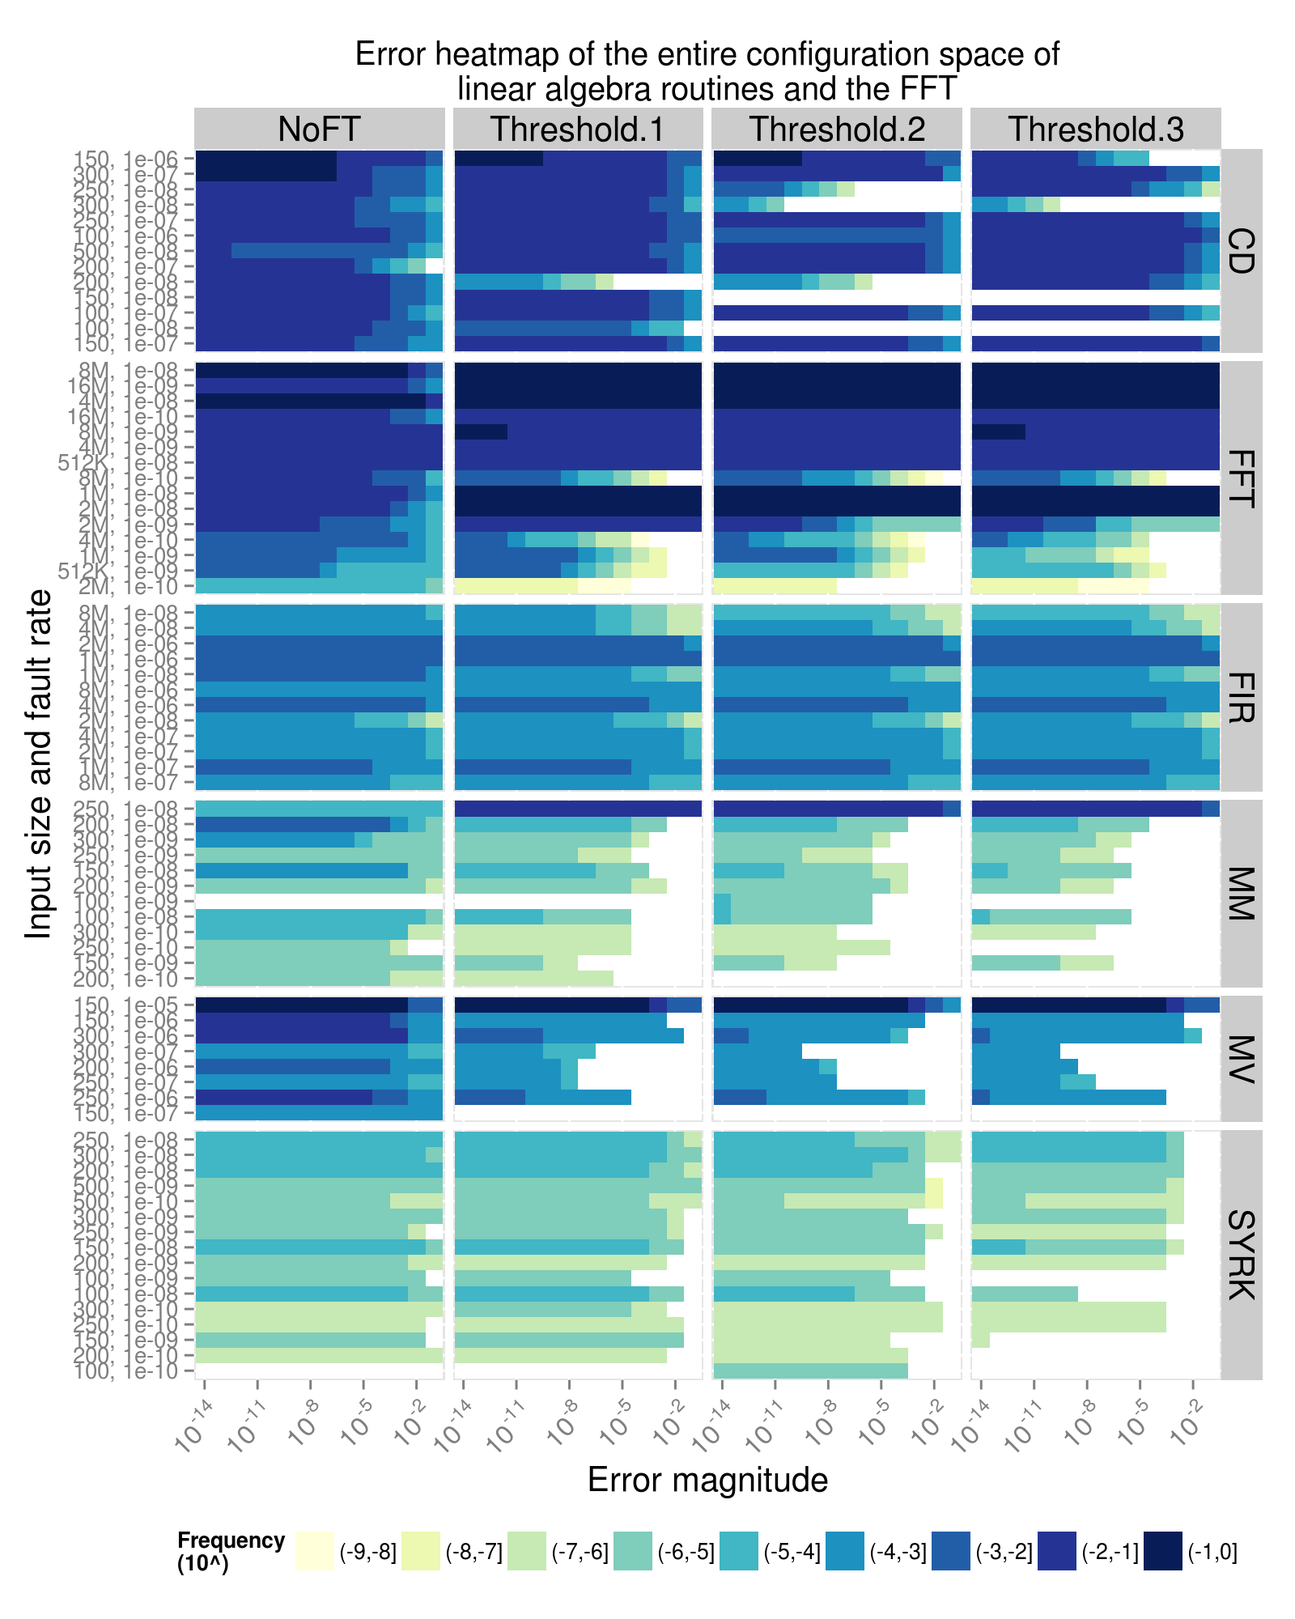
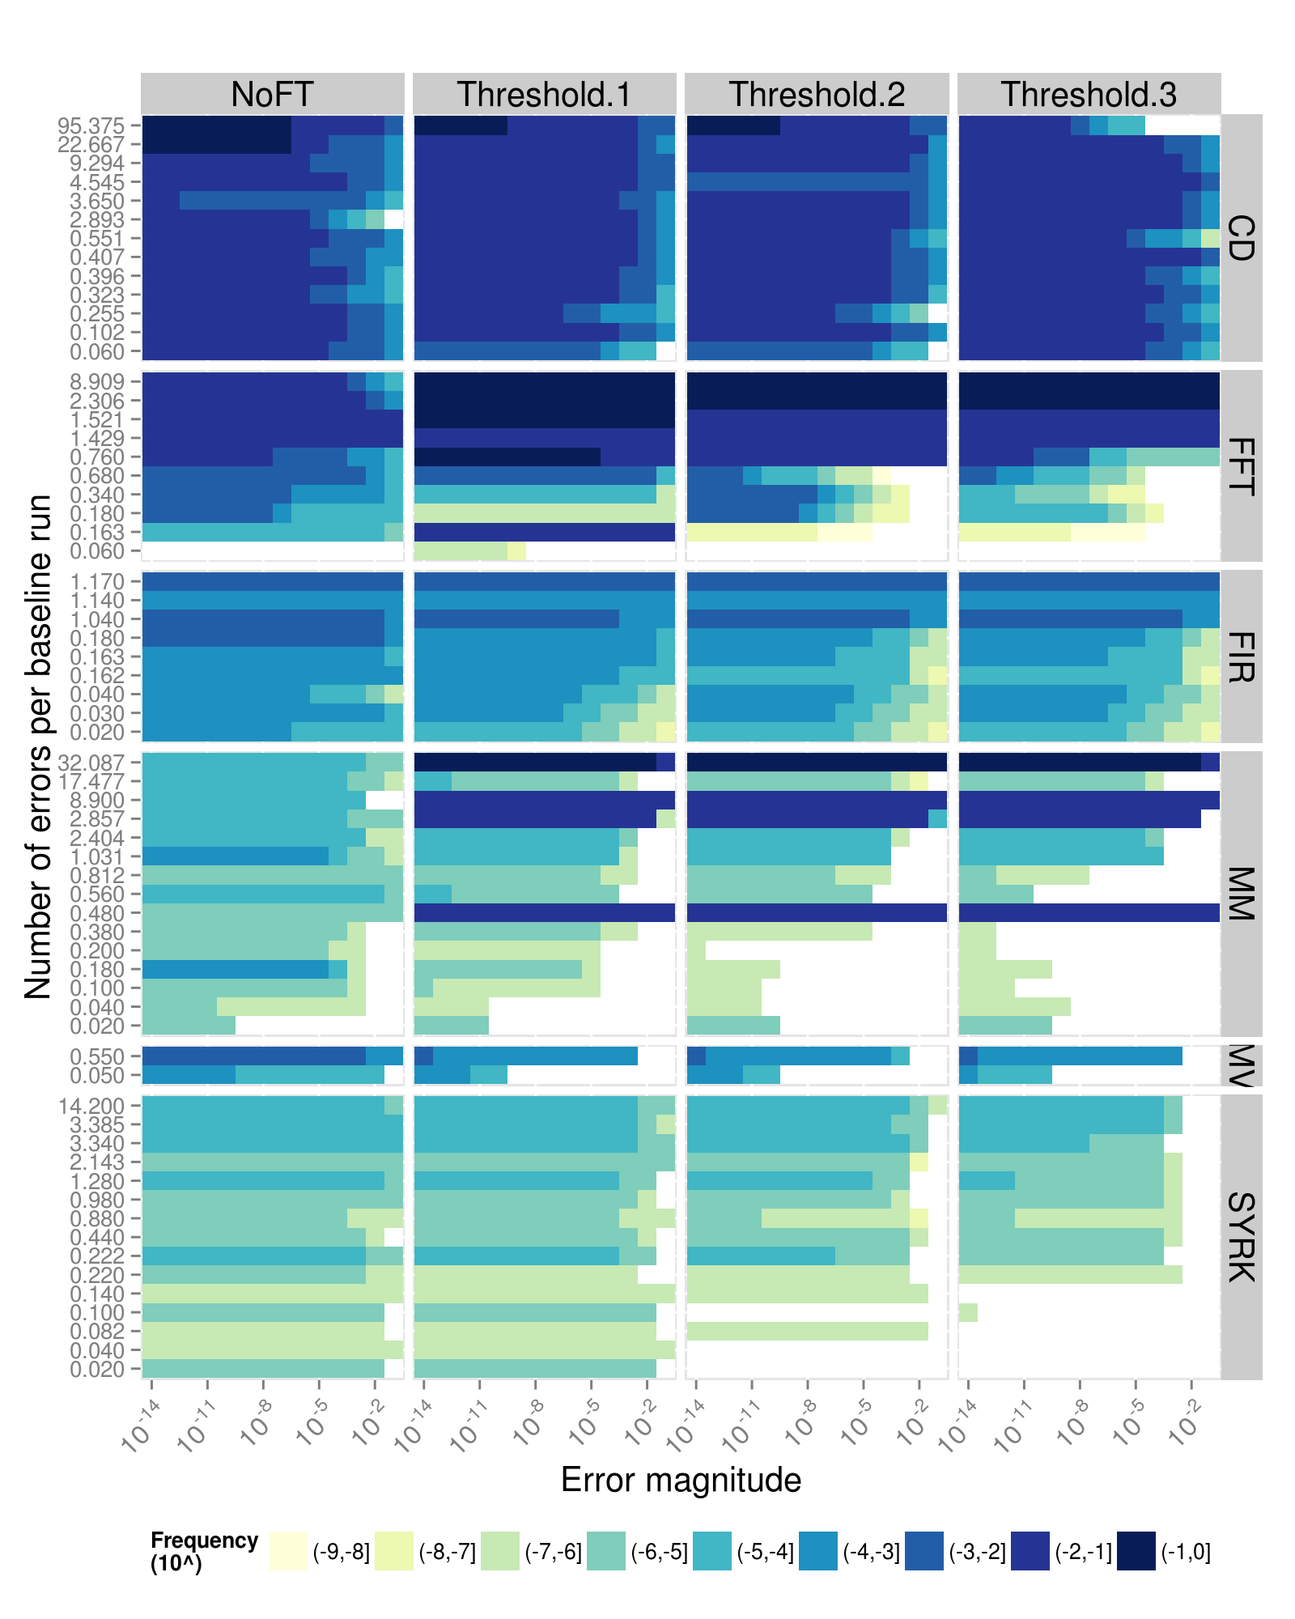
Fixed Fig 4

diff --git a/paper.tex b/paper.tex
@@ -79,7 +79,7 @@ We show how these three applications can be comprehensively protected from soft 
 We demonstrate via fault injection experiments that although none of these techniques can individually protect applications from soft faults, their combination is highly effective.
 Further, we demonstrate how these techniques can be configured to offer the right level of protection at any given fault rate or input type.
 More specifically, these configurations can be used to produce a wide range of overheads and result accuracy levels and to tune the probabilistic confidence level that the given overhead or accuracy target will be met.
-\greg{Summarize real results} \sui{A tighter algorithmic checker bounds can be enabled at low error rates to completely eliminate erroneous results at a lower overhead, while a more lenient algorithmic checker would allow the user to produce more acceptable results in face of a higher error rate (such as 1e-09).}
+\greg{Summarize real results} \sui{A tighter algorithmic checker bounds can be enabled at low error rates to completely eliminate erroneous results at a lower overhead, while a more lenient algorithmic checker would allow the user to produce more acceptable results in face of a higher error rate (such as 1e-09). Through high and low error rates, we correct more than 50\% of segmentation faults and reduce the error in the outputs by magnitudes by paying lower than 20\% overheads for linear algebra, FFT and FIR filter generation and a reasonable overhead for the integrator.}
 
 The paper is organized as follows.
 Section~\ref{sec:soft_faults} discusses the problem of soft errors and presents the fault injection model we use to simulate them in our experiments.
@@ -91,12 +91,12 @@ The effectiveness of our methodology for protecting the full applications is eva
 \section{Soft Faults}
 \label{sec:soft_faults}
 
-Cosmic rays or alpha particles hitting the computer circuits and accumulating a sufficient amount of energy may invert the device logic states from "0" to "1" or from "1" to "0"~\cite{ibm_softerr:1996,baumann:2005}.
+Cosmic rays or alpha particles hitting the computer circuits and accumulating a sufficient amount of energy may invert the device logic states from "0" to "1" or from "1" to "0"~\cite{Ziegler:1996:TCR:226354.226356,baumann:2005}.
 These inversions are termed as soft errors or soft faults.
 The shrinking processor and memory feature size and the lower threshold voltage coming with relentless manufacturing technology scaling make modern high performance computers are highly vulnerable to soft errors which propagate as the program is being executed.
 Prior studies have demonstrated that soft errors occurring in all the important bits that are required for Architecturally Correct Execution (ACE)~\cite{avf:2003} eventually change the program outcome, i.e., manifest errors to the application.
 The ACE bits include critical information to keep the program logic such as the program counter register for a committed instruction.
-In the past decades, soft errors have brought significant losses on commercial servers and high performance computers such as the recall of Sun servers due to memory errors~\cite{SoftErr:Baumann:2002} or the cache corruptions in the ASCI Q system~\cite{asciQSER:2005}.
+In the past decades, soft errors have brought significant losses on commercial servers and high performance computers such as the recall of Sun servers due to memory errors~\cite{baumann:2005} or the cache corruptions in the ASCI Q system~\cite{asciQSER:2005}.
 
 %Discuss prior work on replication and algorithmic techniques, emphasize that in this paper we're focusing on software resilience since hardware resilience is extremely difficult to deploy in real processors since the costs have to be carried by non-HPC markets that care much less about it.
 
@@ -130,15 +130,14 @@ The DRC program generates filters for HiFi audio systems to compensate for the r
 The inputs are stored in Pulse Code Modulation (PCM) format, which is an array of 32-bit floating point numbers representing the samples at each sampling time step and the computations are performed using 32-bit precision.
 Although the algorithm is divided into many phases the most computationally intensive step consists of the GSL's implementation of the Fast Fourier Transform and an DRC-internal implementation of Finite Impulse Response filter generation.
 This program accepts user-controllable configurations to decide the width and number of iterations of FFT transforms it uses to perform various passes on the input file, such as windowing, deconvolution, pre- and post-filtering.
-Different configurations would load the CPU for different lengths of time, resulting in the program generating inputs of different sizes \sui{to the FFT routines.}.
-\greg{What inputs?}
+The input used in this paper is an audio file of size 768 kilobytes.
 
 \subsection{Hattrick}
 \label{sec:apps:hattrick}
 The Hattrick application simulates the motion of bodies under the effects of gravity using 64-bit precision.
 It is designed to help discover extra-solar planets by inferring their existence from Transit Timing Variations, where the difference between the times when a planet passes in front of its host star is used to infer the existence and properties of other planets in the system.
 This program spends most of its execution time in the GSL solver for Ordinary Differential Equations to solver the system's equations of motion.
-\greg{What inputs?} \sui{Input files are four different planetary systems. The first, third and fourth input files simulate one star and one planet and the second simulates one star and two planets. The third and fourth inputs are the same planetary system with different lengths of simulation time.}
+Input files are four different planetary systems. The first, third and fourth input files simulate one star and one planet and the second simulates one star and two planets. The third and fourth inputs are the same planetary system with different lengths of simulation time.
 
 \section{Resilience Techniques}
 \label{sec:res_tech}
@@ -158,7 +157,7 @@ Finally, Section~\ref{sec:res_tech:eval} presents an experimental evaluation of 
 
 Each algorithm used by the above application was enhanced with an algorithm-specific checker that validated its results by exploiting some algorithmic identity.
 Each checker computes some aggregate property of the algorithm's results using two different algorithm to produce vectors $v$ and $v'$ and their relative difference by more than some threshold $\tau$, the checker declares that an error has occurred.
-The relative difference is computed as $\frac{\left|| v-v' \right||}{max(\left||v\right||, \left||v'\right||)}$ \greg{is this the right formula???} \sui{yes}.
+The relative difference is computed as $\frac{\left|| v-v' \right||}{max(\left||v\right||, \left||v'\right||)}$.
 Each error detection causes the routine's execution to be restarted using the rollback mechanism described in Section~\ref{sec:res_tech:cr}.
 
 \paragraph{Matrix-matrix multiplication (MMM)}
@@ -166,7 +165,7 @@ The MMM operation $A \cdot B$ is checked using a matrix vector multiplication (M
 Both sides compute the sums of the columns of matrix $A \cdot B$ using a single matrix-vector multiplication on the left and two such operations on the right.
 Most errors in the computation of $A \cdot B$ will affect the sums of its columns and will thus be detected.
 This check is efficient because the checker is asymptotically faster than the MMM algorithm, with MVM taking $O(n^2)$ time and MMM $O(n^3)$ time.
-Since we make no assumptions about the distribution of data in the matrices being multiplied, we set the check vector $x$ to contain all 1's.
+Since this is dense martix matrix multiplication, we set the check vector $x$ to contain all 1's.
 
 \paragraph{Matrix-vector multiplication (MVM)}
 The MVM algorithm $Ax=b$ is checked using a similar identity $(x^TA)x = x^T(Ax) = x^Tb$.
@@ -240,7 +239,7 @@ This is important for resilience as well as performance since slowdowns due to f
 \label{sec:res_tech:cr}
 
 When errors are detected we employ a recovery method based on checkpoint-restart, where routine state is recorded at key locations and whenever an algorithmic or memory error is detected we roll back to that point in its execution.
-Rollbacks are implemented via the \texttt{sigsetjmp}/\texttt{siglongjmp} routines.
+Rollbacks are implemented via the \texttt{sigsetjmp}/\texttt{siglongjmp} \cite{sigsetjmp:1997} routines.
 \texttt{sigsetjmp} record the application's execution state (registers and stack pointer) at the time of the checkpoint.
 On error detection \texttt{siglongjmp} returns the application to the same execution point, unrolling any function calls between the checkpoint and the error detection.
 This method is useful for rolling back to checkpoints recorded in the same function or in a caller function.
@@ -251,22 +250,16 @@ Checkpoint data is protected using two different mechanisms.
 Pointers and scalars are replicated such that the checkpoint contains two copies of each.
 Arrays of floating point numbers are protected via a block-checksum-based error correcting code..
 By treating the input array as a matrix and comparing row sums and column sums of the submatrices of that matrix, we are able to detect the existence of errors and fix a fraction of the errors.
-\sui{This algorithm takes in an array of numbers, divide it into blocks of $N \cdot N$ numbers, computes and stores the row sums and column sums that are used for recovery. It is capable of correcting one corrupt element that does not share the same row or column with another element.}
-The protection mechanism has the following parameters:
-\begin{itemize}
-\item{\texttt{N}, the size of the error correcting sum block.}
-\item{\texttt{ECC\_ECC}, whether or not the error correcting code itself should be corrected.}
-\end{itemize}
-This mechanism is able to correct up to $1/{n^2}$ of the elements in the input array.
-\greg{Which code is being used here? You just say that it is based on block-checksums}.
+This algorithm takes in an array of numbers, divide it into blocks of $N \cdot N$ numbers and for each block it computes and stores the row sums and column sums that are used for recovery.
+The protection mechanism has one parameters,\texttt{N}, the size of the error correcting sum block.
 
 The structure of each routine determines how checkpointing is deployed.
 All routines except RK are monolithic code blocks that take a relatively large amount of data as input, operate on it and then return.
 In contrast, RK takes in very little input and operates as a long sequence of steps, each of which involves a call to a user-provided derivative routine.
-As such, we checkpoint the state of non-RK routines immediately after the call to the routine and include in this checkpoint the routine's arguments and contents of the floating point input buffers \greg{is this correct?} \sui{Yes}.
+As such, we checkpoint the state of non-RK routines immediately after the call to the routine and include in this checkpoint the routine's arguments and contents of the floating point input buffers.
 The one exception is the FIR routine, which takes no input and thus requires only the processor's state to be checkpointed..
 Because RK's checkpoints are very small and it is more sensitive to errors, it is checkpointed periodically during its execution with a fixed number of steps between checkpoints.
-As our experiments \greg{where?} \sui{This should be ready tomorrow} show, the choice of the RK checkpoint period significantly affects its efficiency with longer periods suffering from more overhead due to rollbacks and short period spending more time checkpointing.
+As our experiments in \ref{sec:res_tech:eval:rk} show, the choice of the RK checkpoint period significantly affects its efficiency with longer periods suffering from more overhead due to rollbacks and short period spending more time checkpointing.
 
 \subsection{Evaluation of Subroutine Resilience}
 \label{sec:res_tech:eval}
@@ -285,15 +278,15 @@ This section evaluates the routines MMM, MVM, SYRK, CD, FFT and FIR.
 \includegraphics[width=1.00\columnwidth]{figs/4_1_1_Exp1_linalg}
 \includegraphics[width=1.00\columnwidth]{figs/4_1_1_Exp1_fft}
 %\vspace{-5pt}
-\caption{Overhead of resilience techniques when errors are not injected \greg{Change y-axis name to say overhead rather than ratio} \sui{Done}}
+\caption{Overhead of resilience techniques when errors are not injected \greg{Change y-axis name to say overhead rather than ratio}}
 \label{fig:routine_detect_ovhd}
 \end{figure}
 
 %Experiment 1: Measure performance degradation of using error detectors as input sizes increase. In case of RK if we can run a version that doesn't do the multiple step sizes, do so but if this is difficult then don't worry about it.
 We evaluate the costs of the above algorithmic error checkers by measuring their costs and effectiveness when running at different error rates on different types of inputs.
-Figure \ref{fig:routine_detect_ovhd} measures the overheads of employing the algorithmic error detectors when no errors are injected, reporting the average of \greg{???} \sui{100} runs.
+Figure \ref{fig:routine_detect_ovhd} measures the overheads of employing the algorithmic error detectors when no errors are injected, reporting the average of 100 runs.
 The linear algebra routines were executed on $nxn$ square matrices where $n$ varies from 100 to 1000.
-FFT ran on inputs vectors with 128K to 4M entries and RK ran on an integral with intervals $[0, t_1]$ where $t_1 \in \{10, 15, 20, 25, 30, 50, 75, 100\}$. \greg{What function was being computed by RK?} \sui{The ODE system consists of a second-order nonlinear Van der Pol oscillator equation $x''(t)+\mu x'(t)(x(t)^2-1)+x(t)=0$}
+FFT ran on inputs vectors with 128K to 4M entries and RK ran on an integral with intervals $[0, t_1]$ where $t_1 \in \{10, 15, 20, 25, 30, 50, 75, 100\}$. The ODE system consists of a second-order nonlinear Van der Pol oscillator equation $x''(t)+\mu x'(t)(x(t)^2-1)+x(t)=0$.
 As our experiments show, the cost of algorithmic error detection is low and drops with increasing input sizes.
 
 \begin{figure}[ht!]
@@ -301,23 +294,26 @@ As our experiments show, the cost of algorithmic error detection is low and drop
 \centering
 \includegraphics[width=1.00\columnwidth]{figs/4_1_1_Overall_Breakdown.png}
 %\vspace{-5pt}
-\caption{Overhead of resilience techniques when no errors are injected \sui{(Bars) and when errors are injected (points). (The SYRK overhead is from the old algorithm (the O($n^2 logn$) version; will update today! }}
+\caption{Overhead of resilience techniques when no errors are injected and when errors are injected (points).}
 \label{fig:routine_all_ovhd}
 \end{figure}
 
 Figure~\ref{fig:routine_all_ovhd} shows the overhead of all resilience techniques with no fault injection.
 The data shows that checkpointing consumes as much, if not more, time than error detection but that this cost grows more slowly than the routines' computational cost.
 In routines MV and RK the inputs are sufficiently small that checkpointing has negligible cost.
-Howveer, because MV runs quickly and because RK takes many checkpoints (\greg{what's the period in this experiment?} \sui{if we take a checkpoint each time RK is called, we can end up taking millions of checkpoints, several magnitudes more than we do for MV and for other linear algebra routines and FFT)}), the cost of saving processor state is small but not negligible.
+Howveer, because MV runs quickly and because RK takes many checkpoints ($9000 \cdot input size)$), the cost of saving processor state is small but not negligible.
 
-Finally, Figure~\ref{fig:routine_exp_exec} documents the overhead of resilience when errors are injected into application execution, accounting for the slowdowns due to the resilience mechanisms as well as rollbacks due to error detections.
-Each routine's graph shows $\frac{\texttt{Time with Errors}}{\texttt{Time No Errors}}$, where the \texttt{Time with Errors} is average increase execution time of a resilient or non-resilient version of the routine when running on the same range of inputs as above, and \texttt{Time No Errors} is the execution time of the non-resilient version on the same inputs when no errors are injected.
-The graph for each routine reports this metric for all of the above input sizes, error injection rates between 1e-8 and \sui{(1e-8 is the highest error rate that we can have for most runs to complete) and 1e-10 (is the lowest error rate we would observe errors from mosts of the runs) } \greg{confirm!} and all resilience configurations (no resilience and resilience with detection thresholds between 1e-6 and 1e-8), as the average time of \greg{???} runs \sui{100 runs per configuration}.
+%Finally, Figure~\ref{fig:routine_exp_exec} documents the overhead of resilience when errors are injected into application execution, accounting for the slowdowns due to the resilience mechanisms as well as rollbacks due to error detections.
+
+\sui{(Describe Fig.2 when faults are injected)}
+
+%Each routine's graph shows $\frac{\texttt{Time with Errors}}{\texttt{Time No Errors}}$, where the \texttt{Time with Errors} is average increase execution time of a resilient or non-resilient version of the routine when running on the same range of inputs as above, and \texttt{Time No Errors} is the execution time of the non-resilient version on the same inputs when no errors are injected.
+%The graph for each routine reports this metric for all of the above input sizes, error injection rates between 1e-8 and \sui{(1e-8 is the highest error rate that we can have for most runs to complete) and 1e-10 (is the lowest error rate we would observe errors from mosts of the runs) } \greg{confirm!} and all resilience configurations (no resilience and resilience with detection thresholds between 1e-6 and 1e-8), as the average time of \greg{???} runs \sui{100 runs per configuration}.
 The data points within each figure are organized horizontally according to the average number of errors injected into runs with the given input size and at the given injection rate. \greg{Do the error counts include errors after rollbacks?} \sui{No, because the error count is the number of errors for Non-FT runs with errors. Since there is no FT and no checkpointing in these configurations, the number doesn't include errors after rollbacks. }
 This average error count is shown on the x-axis.
 All runs with the same resilience configuration are joined together into a line to highlight its properties.
 
-The data shows \greg{???} \sui{Soft errors may cause the routines to run longer due to rollback in attempt to correct the errors. The higher the error rate, the more likely rollback is to occur. For example, the Cholesky Decomposition routine with input size 100, when exposed to an error rate of 1e-06, would run on average twice as long as when no fault is injected. That means in this case, every one of the runs tend to have 100\% overhead. In some cases the algorithm would give up retrying after the fifth time because it is unable to recover from the corrupt inputs. For example, for FFT exposed at a fault rate of 1e-08, the average overhead, as computed by dividing the time spent in the fault-tolerance codes by the baseline running time, decreases, because more runs tend to early-terminate when too many elements in the input have been corrupted.}
+\sui{These are about Figure 2}The data shows \greg{???} \sui{Soft errors may cause the routines to run longer due to rollback in attempt to correct the errors. The higher the error rate, the more likely rollback is to occur. For example, the Cholesky Decomposition routine with input size 100, when exposed to an error rate of 1e-06, would run on average twice as long as when no fault is injected. That means in this case, every one of the runs tend to have 100\% overhead. In some cases the algorithm would give up retrying after the fifth time because it is unable to recover from the corrupt inputs. For example, for FFT exposed at a fault rate of 1e-08, the average overhead, as computed by dividing the time spent in the fault-tolerance codes by the baseline running time, decreases, because more runs tend to early-terminate when too many elements in the input have been corrupted.}
 
 \sui{I will add a graph showing how many of the inputs have been corrupted and failed to recover. This is an important issue for FFT.}
 
@@ -328,7 +324,7 @@ The data shows \greg{???} \sui{Soft errors may cause the routines to run longer 
 \begin{figure}[ht!]
 \centering
 \includegraphics[width=1.00\columnwidth]{figs/4_1_1_Exp2_1_Example.png}
-\caption{Error magnitude histogram showing the effectiveness of the error detector \greg{Why is FFT not improving with tighter threshold? Why is MM differently vulnerable than SYRK?} \sui{Reason for FFT: 1. Errors smaller than a certain value cannot be captured by the checker, even at low error rates, so this should be the fundamental limitation of the checker. 2. We actually are seeing reduction in large errors, but those large errors account for such a small fraction that they are not obviously visible on the graph. For the difference between MM and SYRK: MM is more vulnerable therefore the difference between ``corrected'' and ``not corrected'' would look more noticable.}}
+\caption{Error magnitude histogram showing the effectiveness of the error detector}
 \label{fig:algo_err_dist}
 \end{figure}
 
